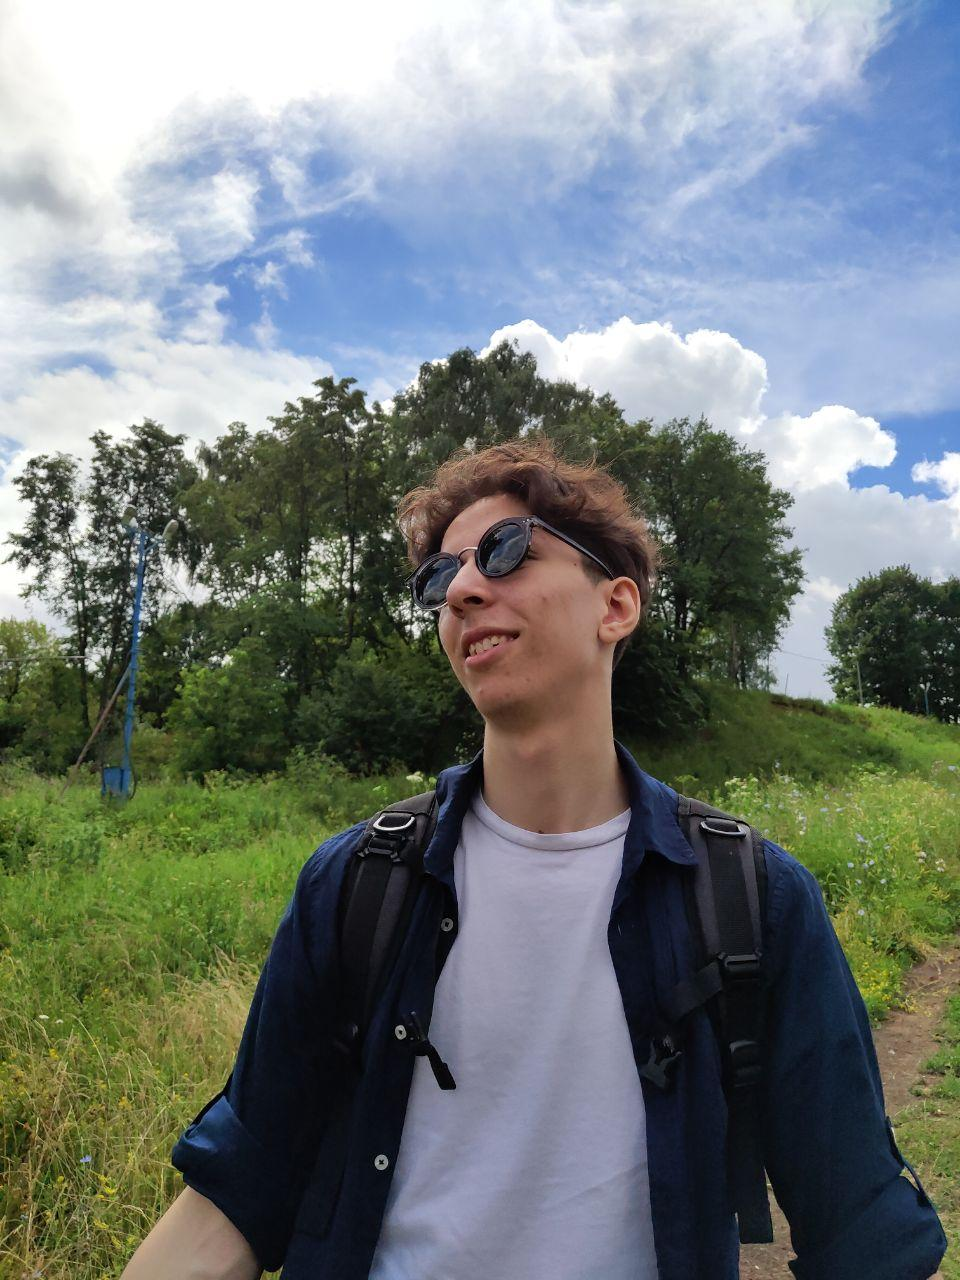
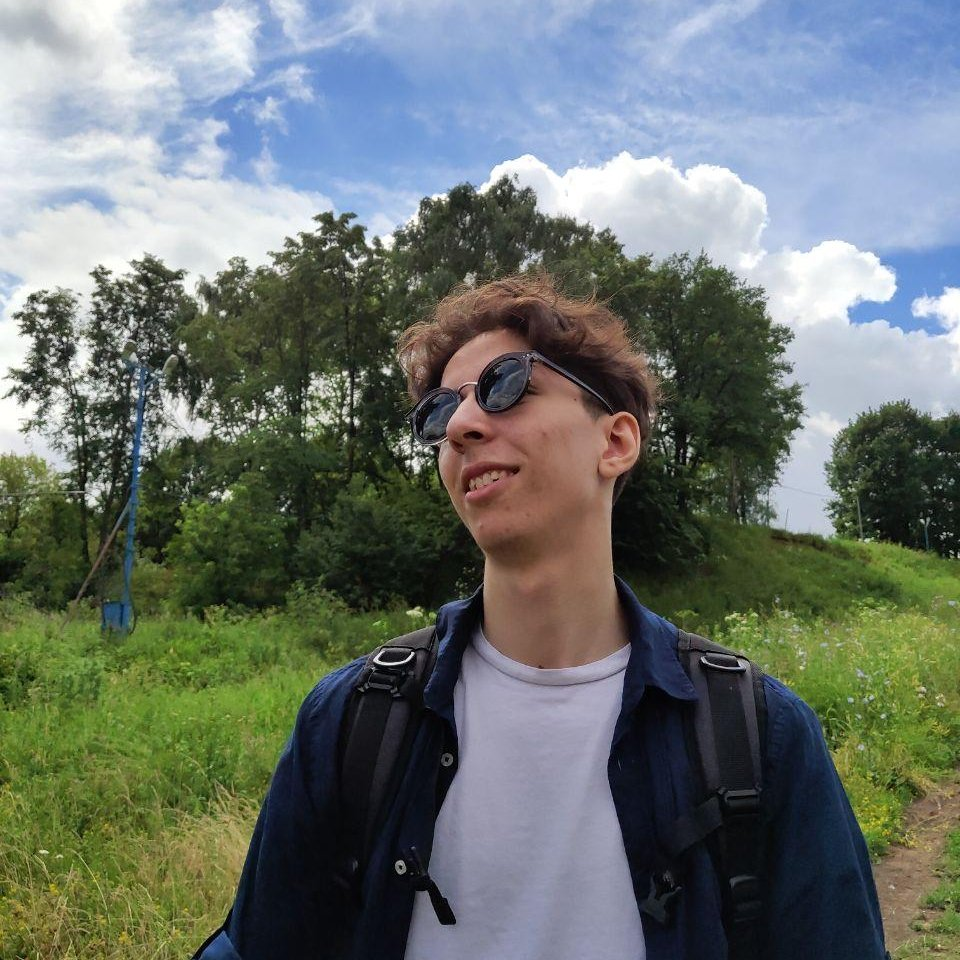
Update all the info about me

diff --git a/_tabs/about.md b/_tabs/about.md
@@ -1,8 +1,18 @@
 ---
-# the default layout is 'page'
+title: About Me
+name: Shabat Dmitry
 icon: fas fa-info-circle
 order: 4
 ---
 
-> Add Markdown syntax content to file `_tabs/about.md`{: .filepath } and it will show up on this page.
-{: .prompt-tip }
+![Me](/assets/img/me.jpg){: .right}{: w="300" }
+
+Did competitive programming for 3 years, got very interested in Computer Graphics, Machine Learning, AR/VR.
+
+First real work experience was at [Funexpected](https://funexpectedapps.com/) where I was an intern Godot developer. I actually programmed most of the ninja-minigame in their Funexpected Math app! I was 16 at the time so that was quite a big deal for me.
+
+Worked for 2 years at [3D Smile](https://3d-smile.ru/) part-time as a junior Machine Learning Engineer, working on an internal pipeline for teeth detection and segmentation.
+
+Currently working at [Clostra](https://clostra.com/) as a full-time Machine Learning Engineer, working on various 3D Vision methods: depth estimation, NeRFs, 3D GANs, etc.
+
+I am also currently pursuing my Bachelor's Degree studying **Applied Mathematics and Informatics** at the [Higher School of Economics](https://www.hse.ru/en/).
